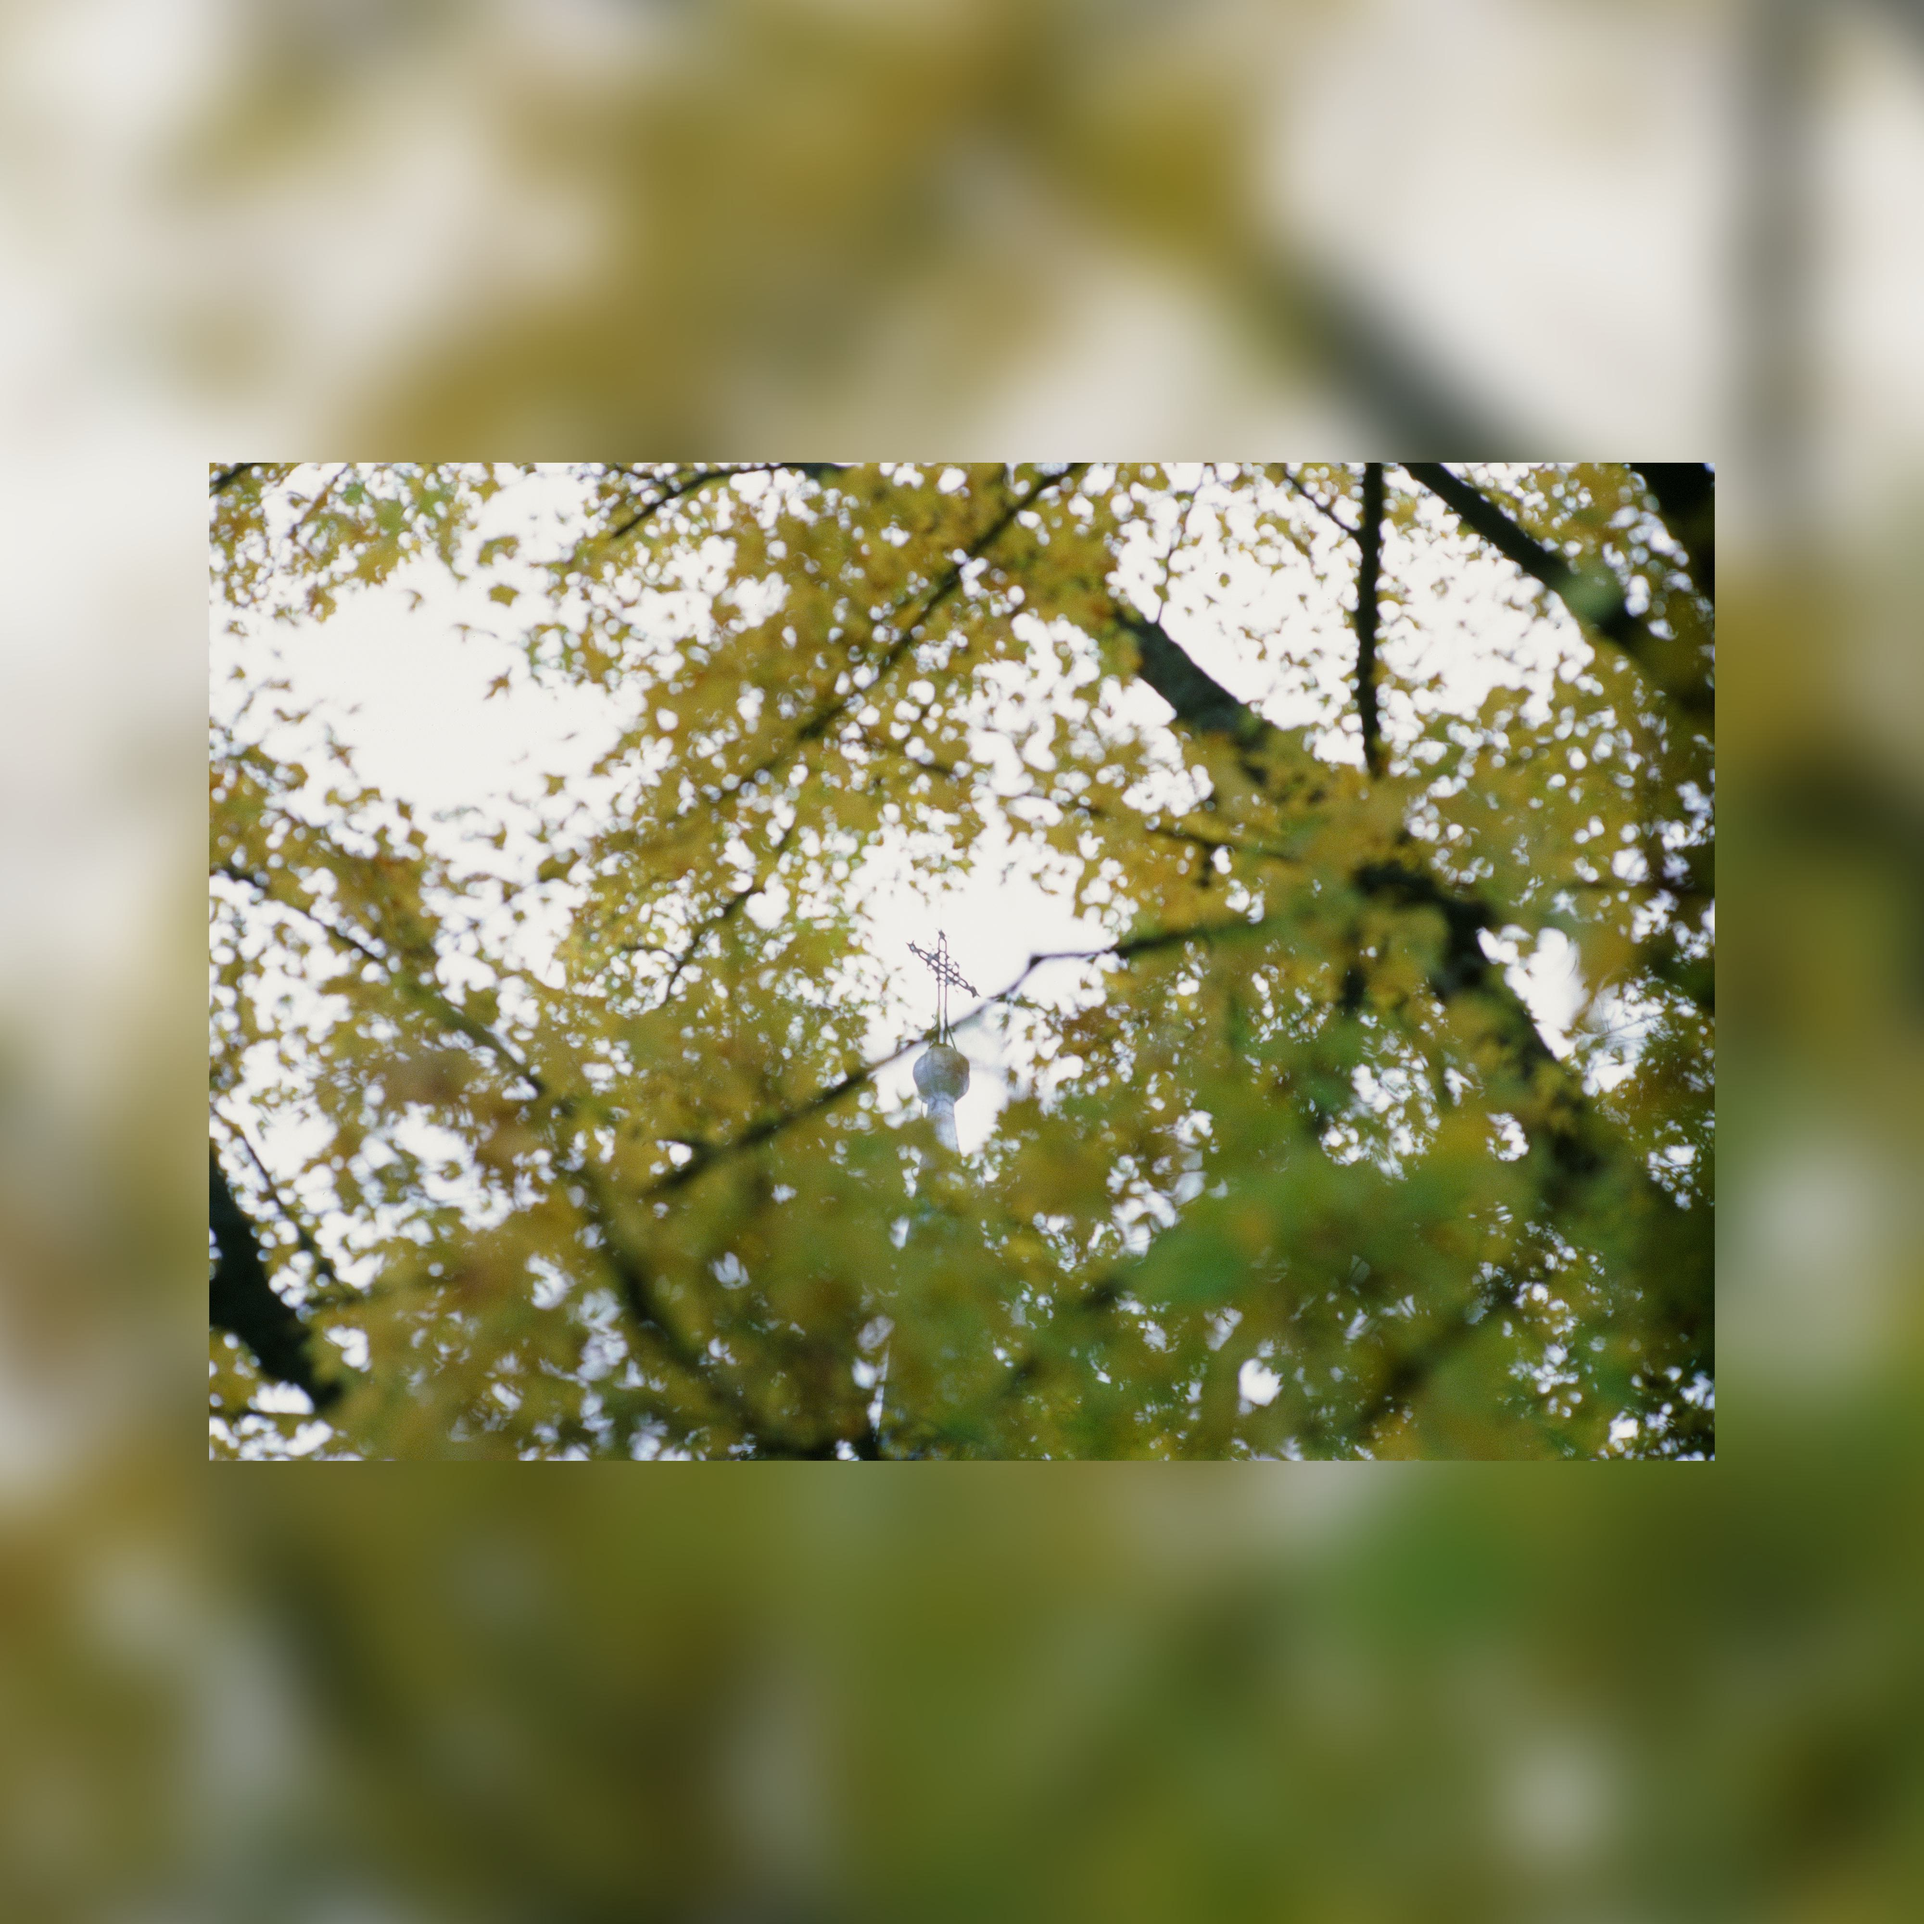
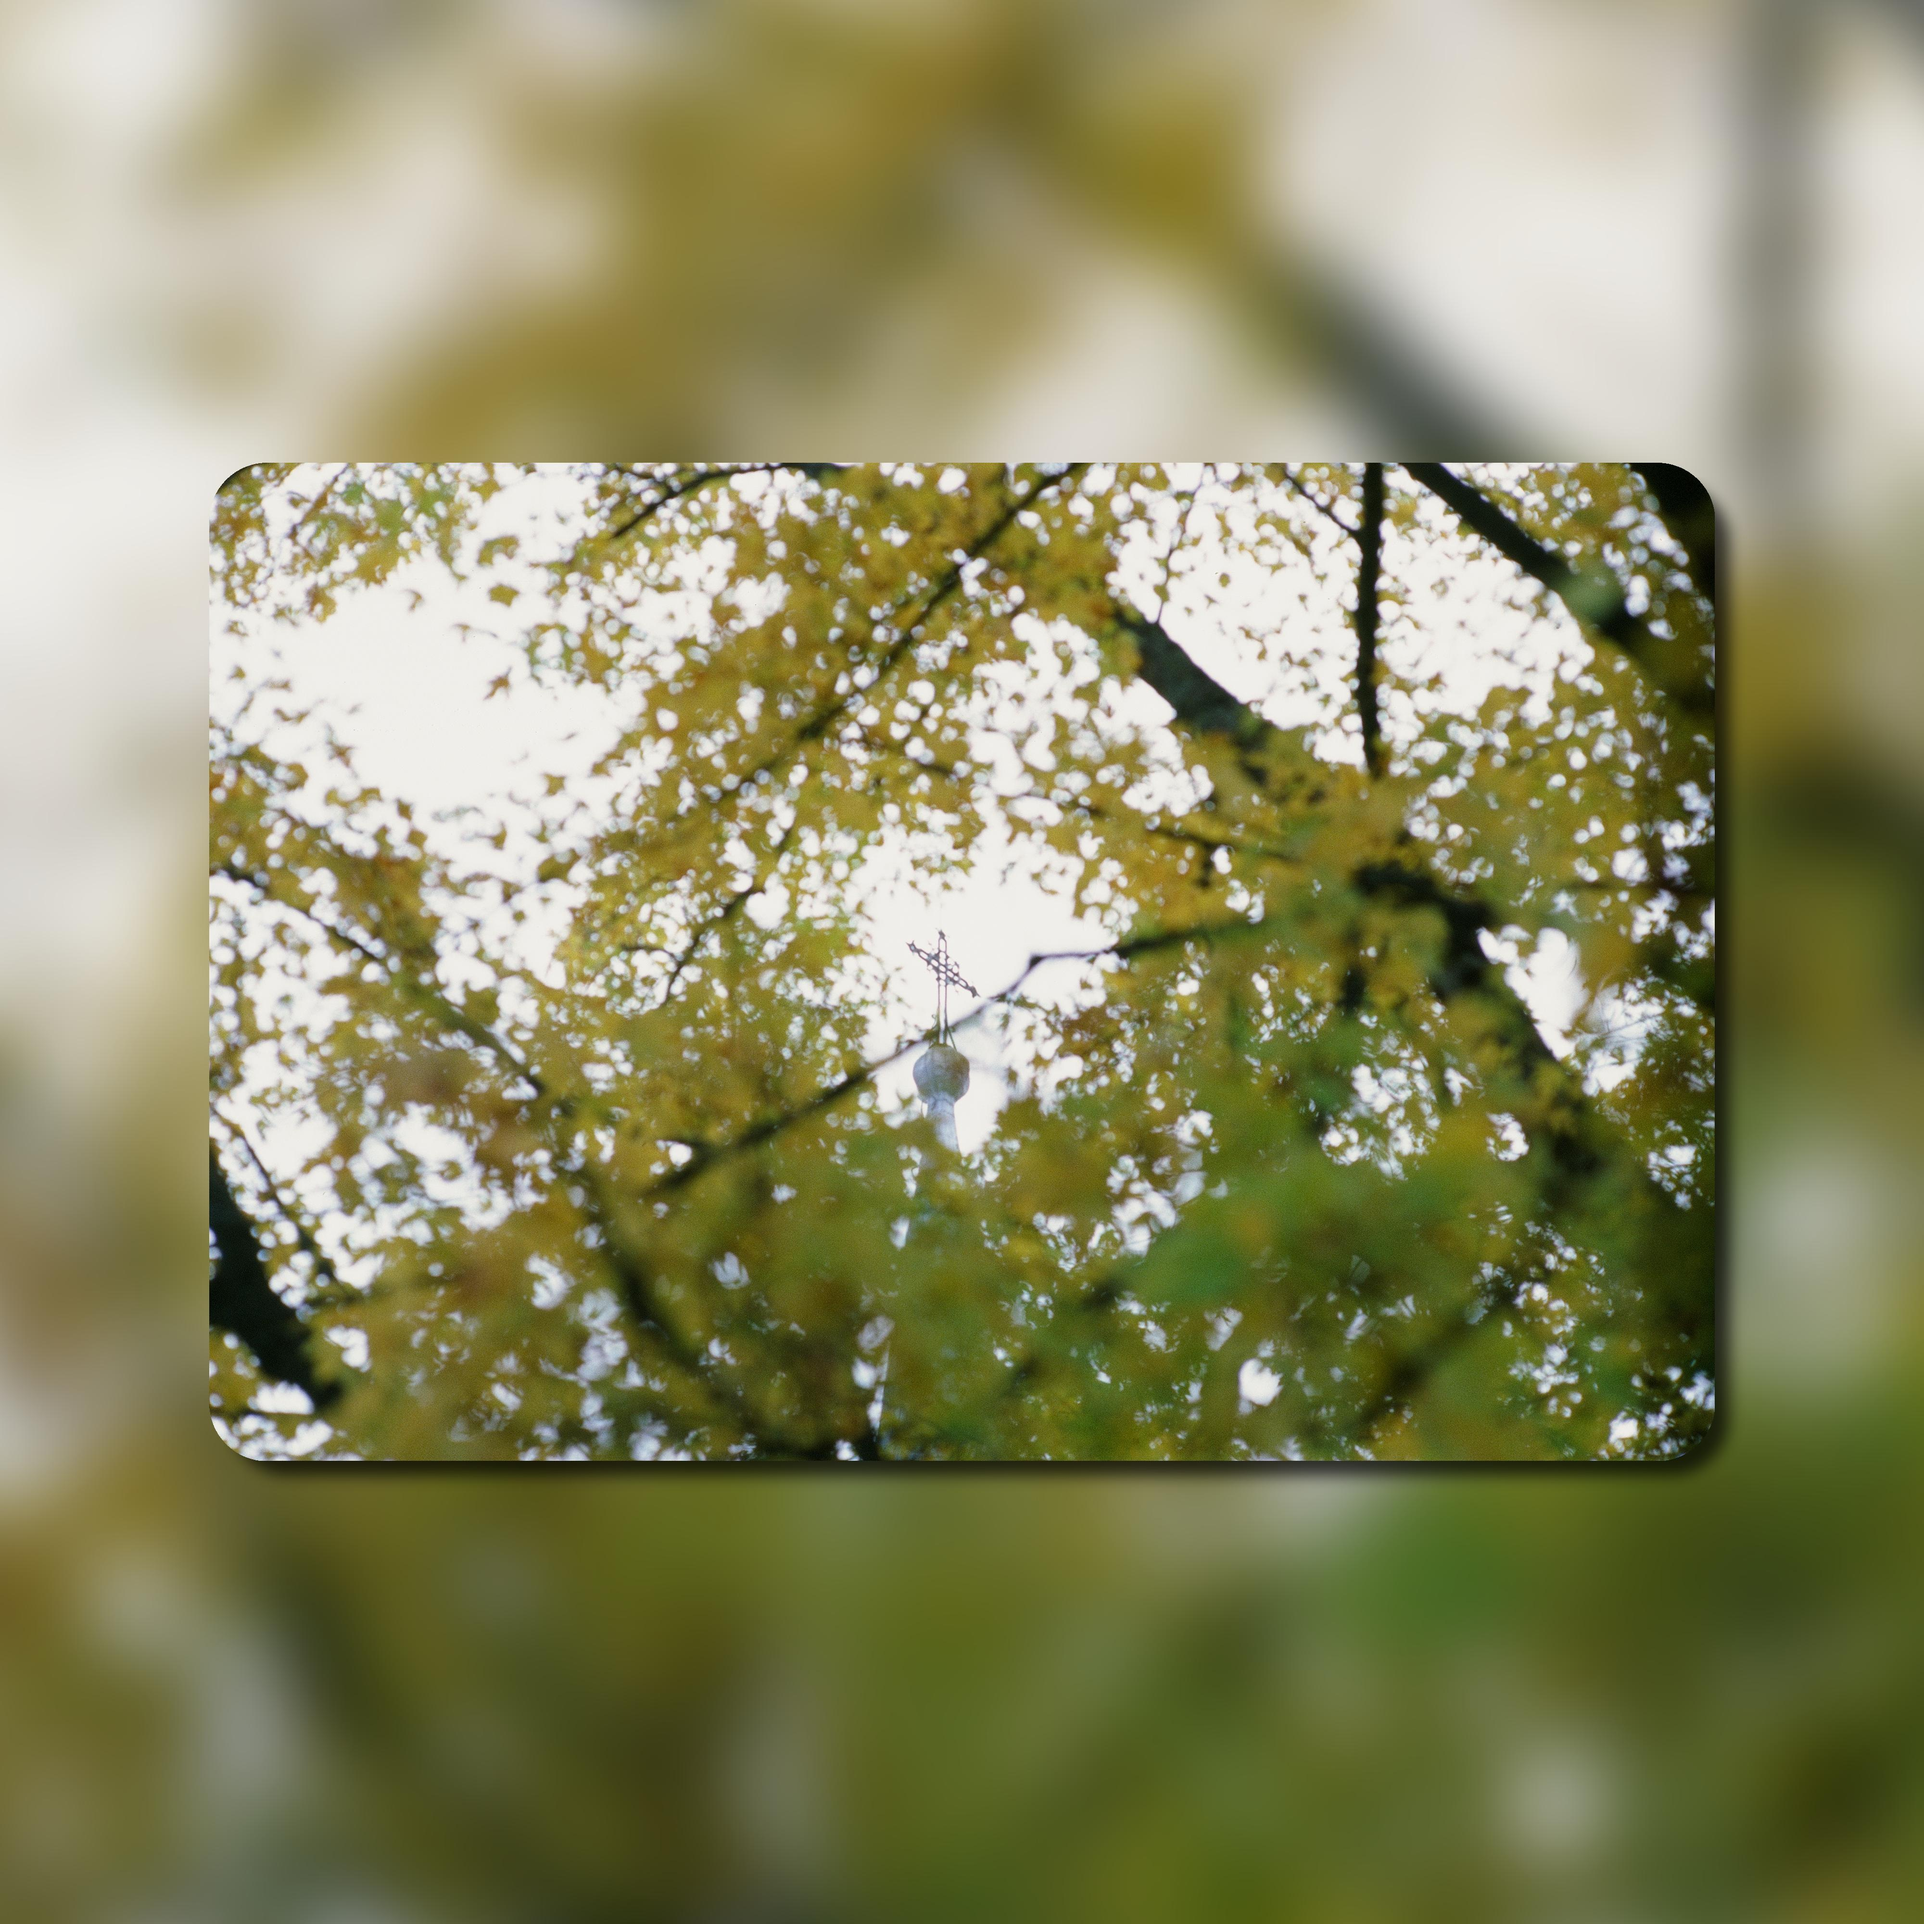
fix: Adjust shadow opacity and offset in Add_Background.py

Changed region(s): [[0.125, 0.2188, 0.9062, 0.7812], [0.0938, 0.2188, 0.125, 0.25]]

diff --git a/Add_Background.py b/Add_Background.py
@@ -68,13 +68,13 @@ def add_blured_background(image,width,height, corner_radius=120, shadow_offset=(
     shadow_draw.rounded_rectangle(
         [(shadow_blur, shadow_blur), (image.width, image.height)],
         corner_radius,
-        fill=(0, 0, 0, 255)
+        fill=(0, 0, 0, 180)
     )
     shadow = shadow.filter(ImageFilter.GaussianBlur(shadow_blur))
 
 
     offset = ((temp_width - width) // 2, (temp_height - height) // 2)
-    new_image.paste(shadow, (offset[0] - shadow_offset[0] // 2, offset[1] - shadow_offset[1] // 2), shadow)
+    new_image.paste(shadow, (offset[0] + shadow_offset[0] // 2, offset[1] + shadow_offset[1] // 2), shadow)
     new_image.paste(rounded_image, offset, rounded_image)
     return new_image
 def add_dominant_color_background(image,width,height,new_width,new_height):
